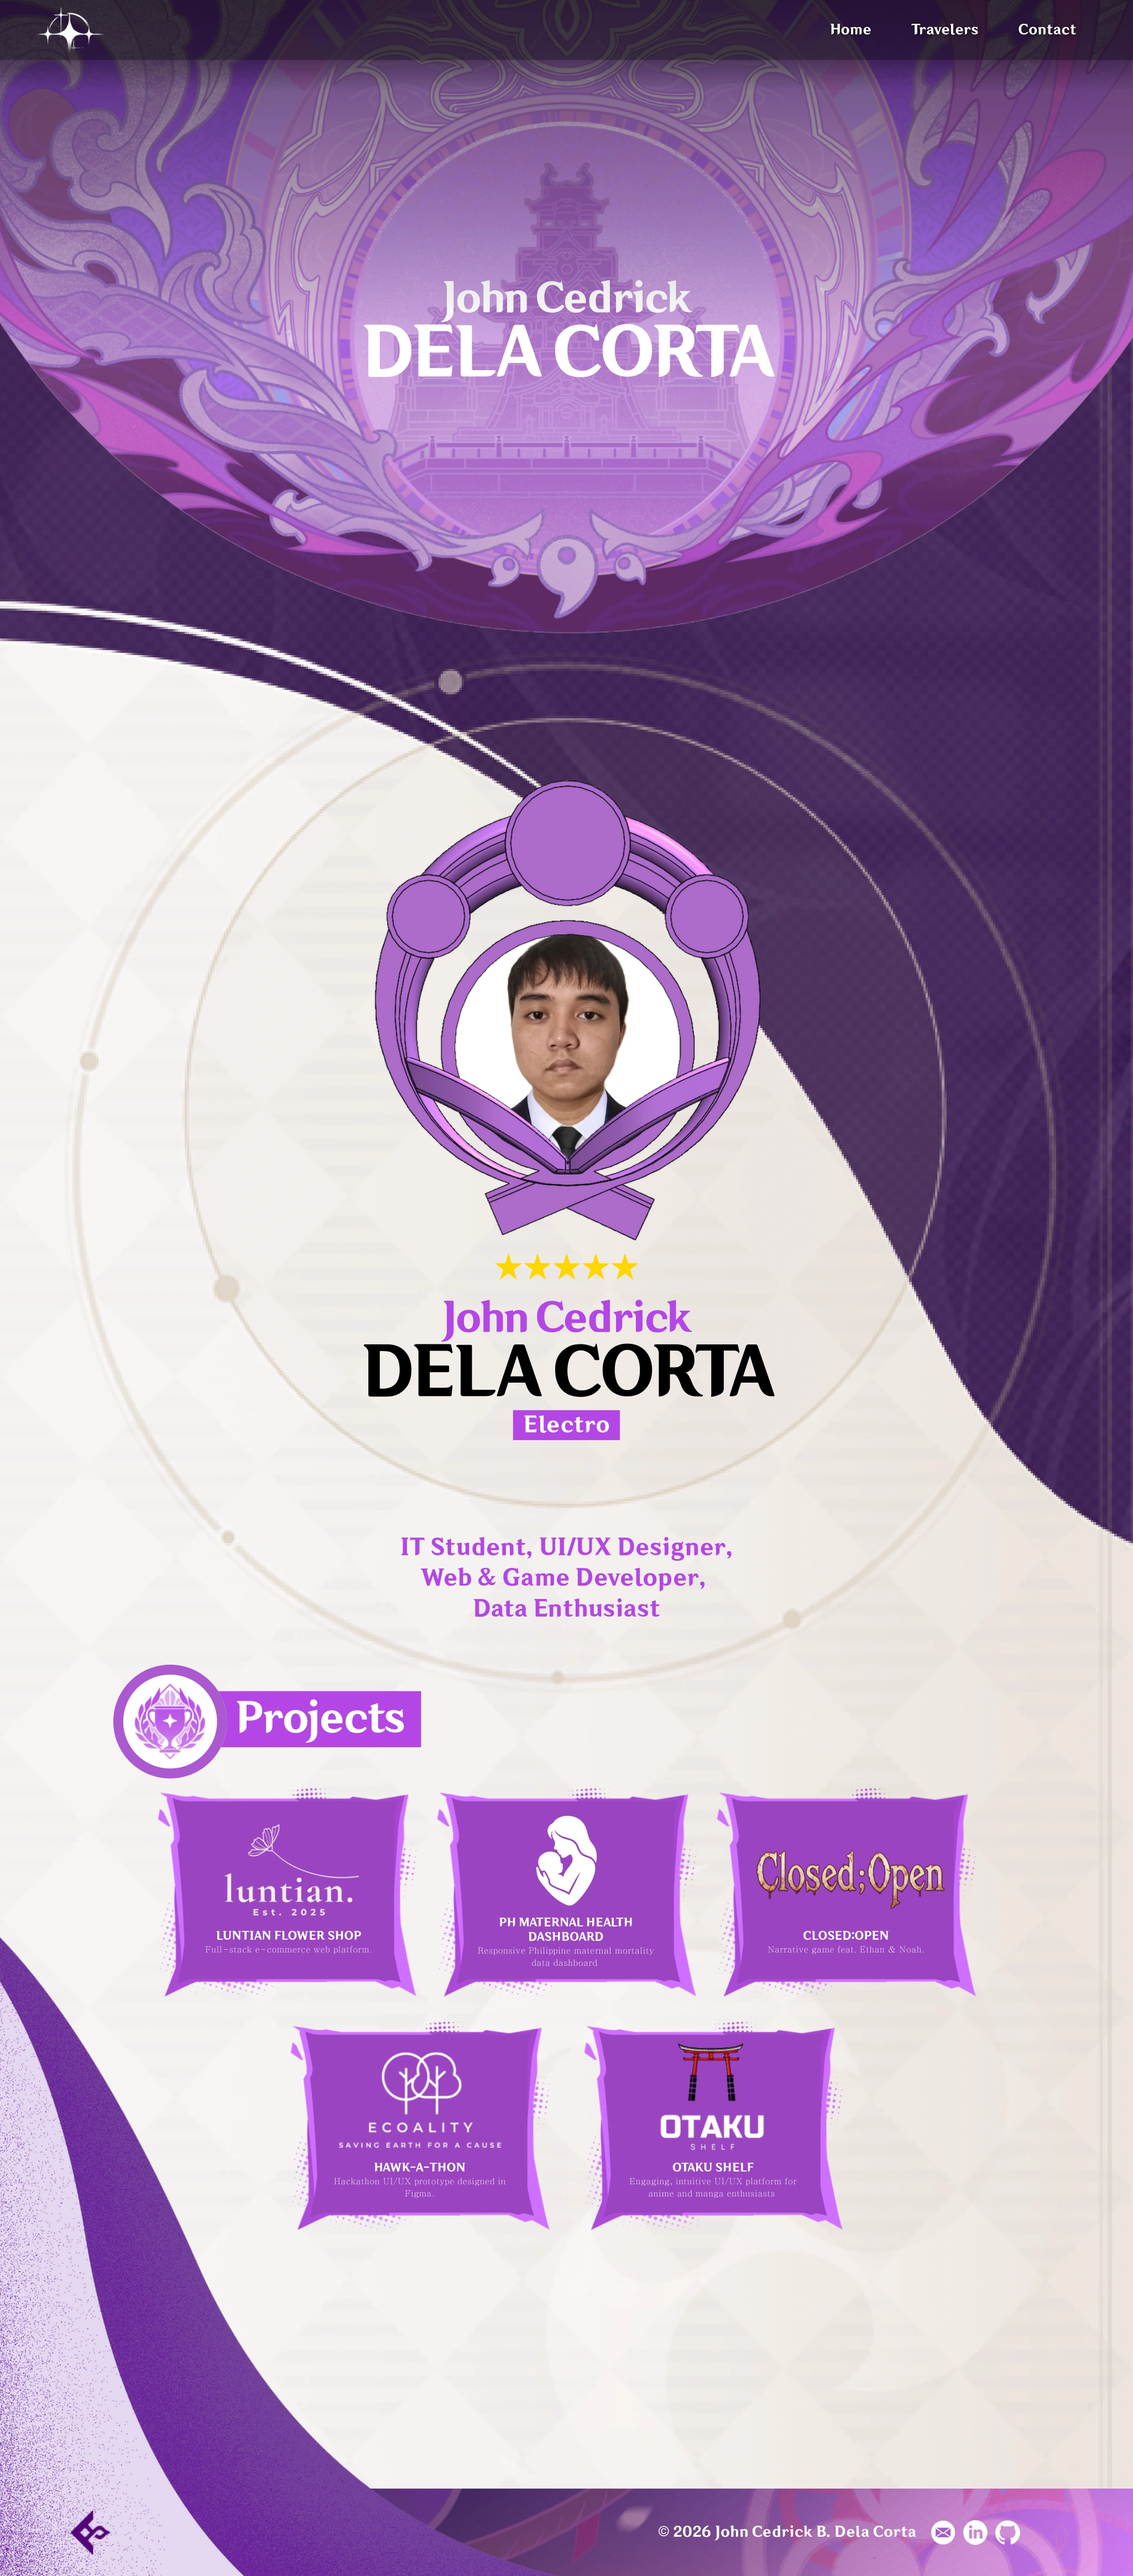
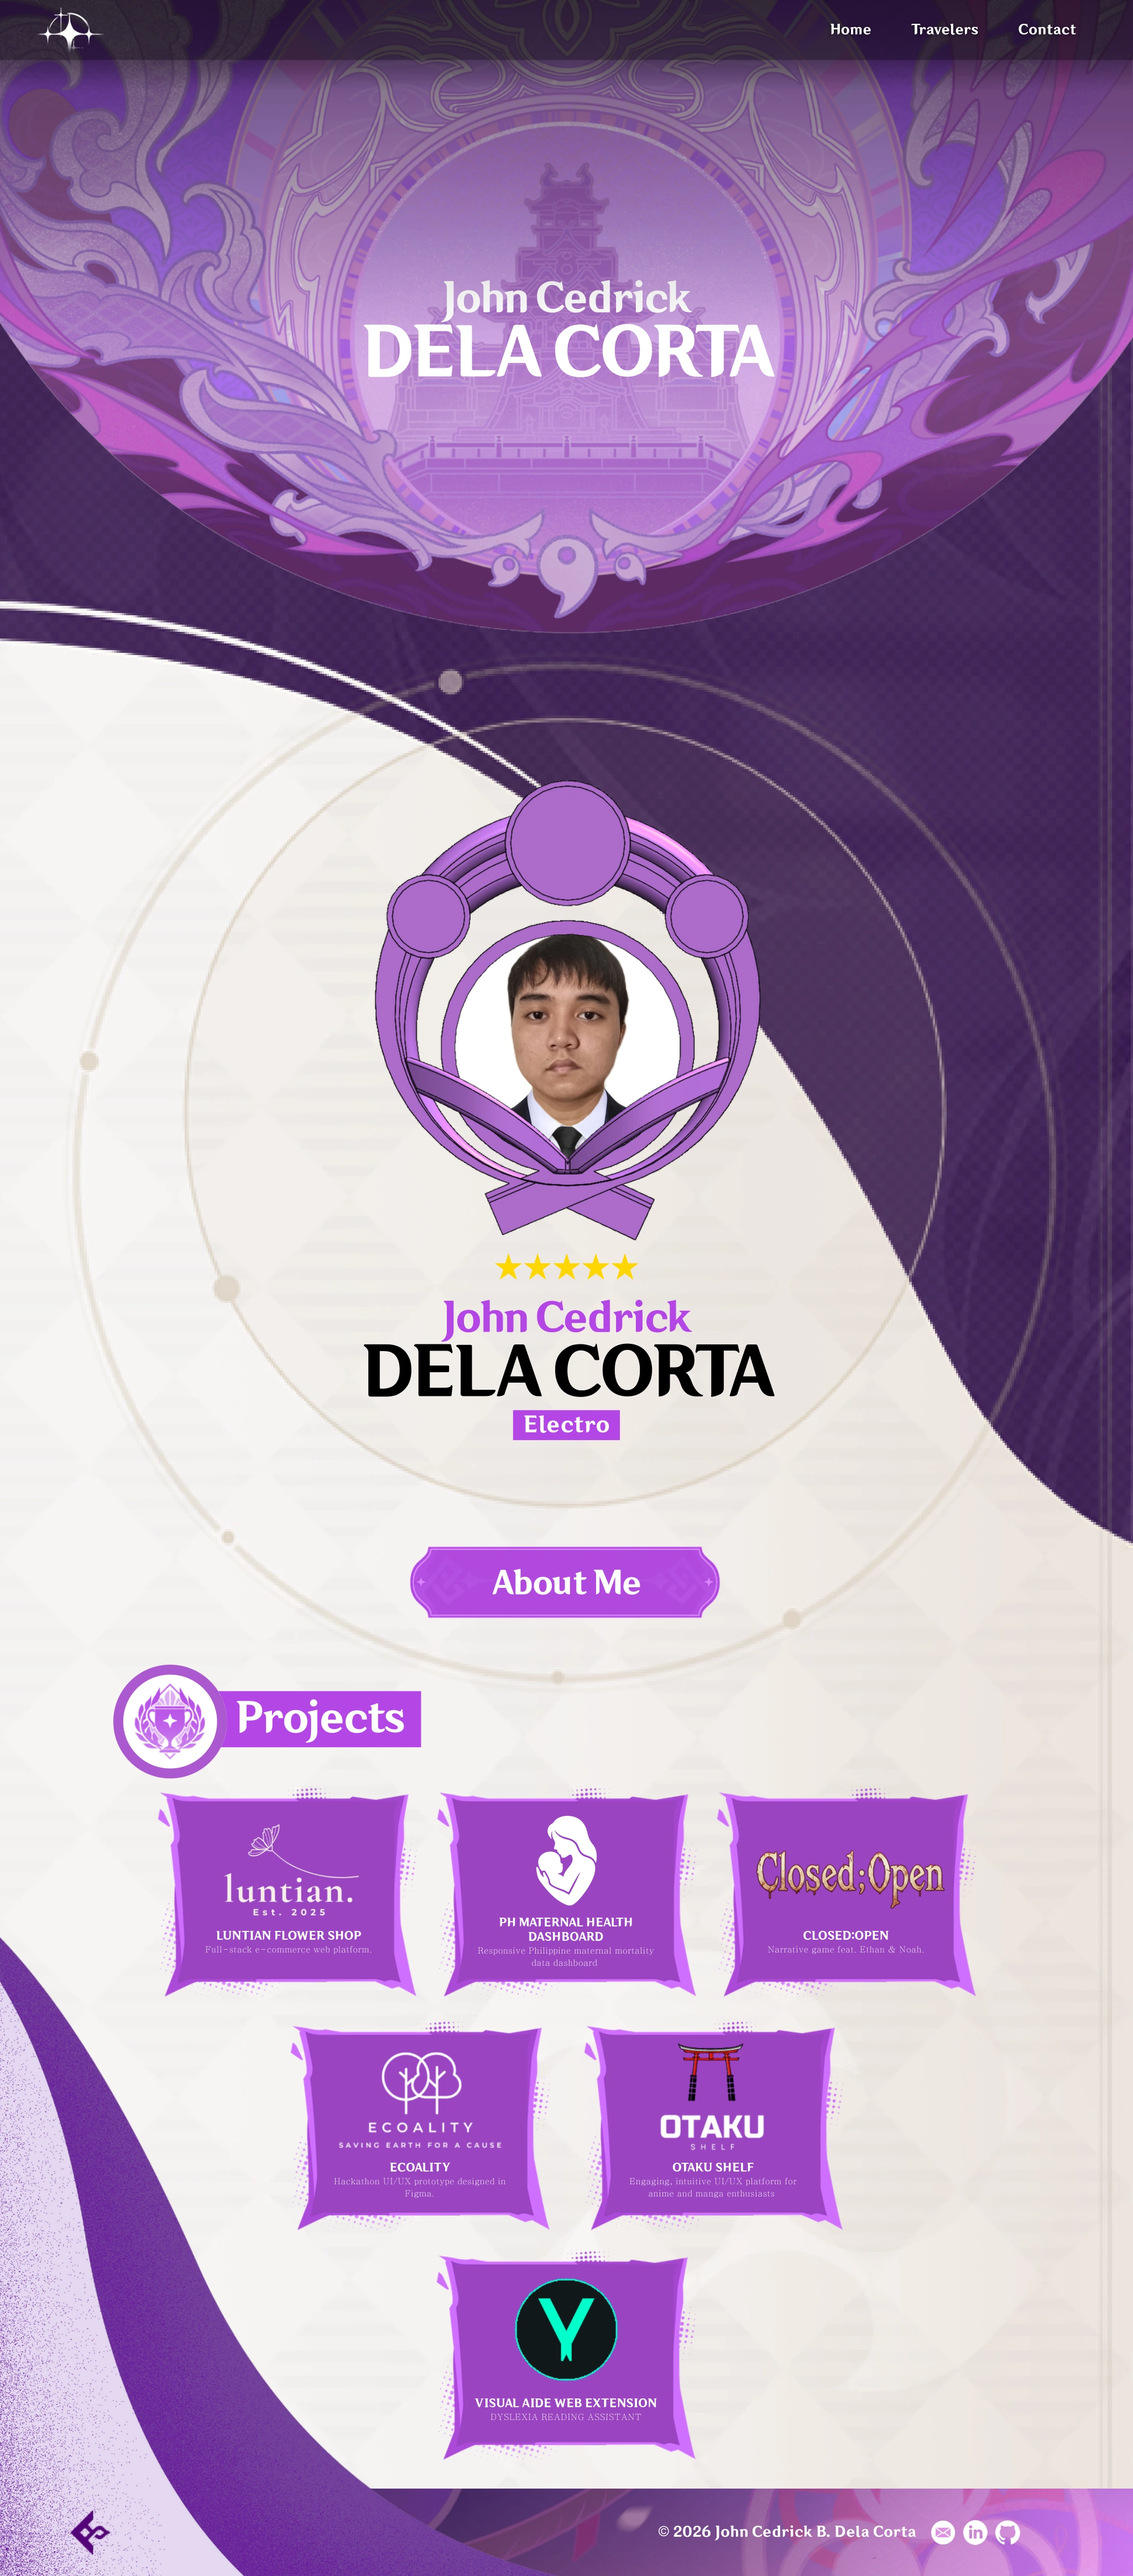
Update Cedrick portfolio mockup with About Me button and Visual Aide project hotspot

Changed region(s): [[0.3748, 0.872, 0.6247, 0.9654], [0.3436, 0.5917, 0.6559, 0.654]]

diff --git a/cedrick.html b/cedrick.html
@@ -40,12 +40,15 @@
       <img src="./assets/cedrick/portfolio_mockup_hd.png" alt="John Cedrick Dela Corta • Inazuma Electro Portfolio" class="portfolio-mockup-image" loading="eager" fetchpriority="high">
     </picture>
 
-    <!-- ==================== 1. INTERACTIVE PROJECT CARDS ==================== -->
+    <!-- ==================== 1. ABOUT ME & INTERACTIVE PROJECT CARDS ==================== -->
+    <button type="button" class="interactive-hotspot hotspot-about-me" id="hotspot-about-me" data-project="about-me" aria-label="View About John Cedrick Dela Corta Details" title="About Me • John Cedrick Dela Corta"></button>
+
     <button type="button" class="interactive-hotspot hotspot-card hotspot-card-luntian" data-project="luntian" aria-label="View Luntian Flower Shop Project Details" title="Luntian Flower Shop • E-Commerce Platform"></button>
     <button type="button" class="interactive-hotspot hotspot-card hotspot-card-maternal-health" data-project="maternal-health" aria-label="View PH Maternal Health Dashboard Project Details" title="PH Maternal Health Dashboard • Health Data Tool"></button>
     <button type="button" class="interactive-hotspot hotspot-card hotspot-card-closed-open" data-project="closed-open" aria-label="View Closed;Open Project Details" title="Closed;Open • Narrative Game"></button>
     <button type="button" class="interactive-hotspot hotspot-card hotspot-card-ecoality" data-project="ecoality" aria-label="View Ecoality Project Details" title="Ecoality • Hawk-A-Thon Prototype"></button>
     <button type="button" class="interactive-hotspot hotspot-card hotspot-card-otaku-shelf" data-project="otaku-shelf" aria-label="View Otaku Shelf Project Details" title="Otaku Shelf • Anime & Manga Platform"></button>
+    <button type="button" class="interactive-hotspot hotspot-card hotspot-card-visual-aide" data-project="visual-aide" aria-label="View Visual Aide Web Extension Details" title="Visual Aide Web Extension • Dyslexia Reading Assistant"></button>
 
     <!-- ==================== 2. INTERACTIVE FOOTER HOTSPOTS ==================== -->
     <!-- Back Button (Bottom-Left Stylized Arrow) -->
@@ -119,6 +122,20 @@
         img: './assets/cedrick/card_otaku_shelf.png',
         desc: 'A community-focused web platform designed for anime and manga enthusiasts to track watchlists, share curated reviews, and discover seasonal releases through an engaging and intuitive user interface.',
         tech: ['React', 'TypeScript', 'UI/UX Design', 'Anime/Manga API', 'CSS Grid']
+      },
+      'visual-aide': {
+        title: 'Visual Aide Web Extension',
+        tag: 'VISUAL AIDE WEB EXTENSION • Dyslexia reading assistant.',
+        img: './assets/cedrick/card_visual_aide.png',
+        desc: 'An accessibility-focused browser extension engineered to enhance web reading comprehension for individuals with dyslexia. Features OpenDyslexic typography switching, custom contrast overlays, bionic reading mode, and integrated text-to-speech comprehension tools.',
+        tech: ['JavaScript', 'Chrome Extension API', 'Accessibility (a11y)', 'UI/UX Design', 'Text-to-Speech']
+      },
+      'about-me': {
+        title: 'John Cedrick Dela Corta',
+        tag: 'ARCHON\'S PROFILE • SYSTEMS ARCHITECT & DEVELOPER',
+        img: './assets/cedrick/portrait_electro.png',
+        desc: 'The high-voltage systems engineer and full-stack software artisan of Group 4. Creator of dynamic e-commerce solutions, clinical health informatics dashboards, and accessibility-first web architectures. Driven by robust code performance and striking Inazuma Electro aesthetics.',
+        tech: ['Full-Stack Development', 'React / TypeScript', 'FastAPI / Python', 'UI/UX Design', 'Database Engineering', 'Interactive Systems']
       }
     };
 
@@ -199,8 +216,8 @@
       document.body.style.overflow = '';
     }
 
-    // Attach click events to project cards
-    document.querySelectorAll('.hotspot-card').forEach(card => {
+    // Attach click events to project cards and about me button
+    document.querySelectorAll('.hotspot-card, .hotspot-about-me').forEach(card => {
       card.addEventListener('click', () => {
         const projId = card.getAttribute('data-project');
         openProjectModal(projId);

diff --git a/cedrick.css b/cedrick.css
@@ -212,8 +212,29 @@ body.cedrick-portfolio-body {
 }
 
 /* =======================================================
-   4. PROJECT CARD HOTSPOTS (3-2 STAGGERED GRID)
+   4. ABOUT ME & PROJECT CARD HOTSPOTS
    ======================================================= */
+/* About Me Hotspot Button */
+.hotspot-about-me {
+  left: 35.830%;
+  top: 59.935%;
+  width: 28.366%;
+  height: 3.150%;
+  border-radius: 36px;
+  border: 2px solid transparent;
+}
+
+.hotspot-about-me:hover {
+  border-color: rgba(218, 165, 255, 0.85);
+  background: rgba(179, 102, 255, 0.22);
+  box-shadow: 0 0 28px rgba(179, 102, 255, 0.8), 0 0 45px rgba(218, 165, 255, 0.55), inset 0 0 16px rgba(218, 165, 255, 0.4);
+  transform: translateY(-3px) scale(1.025);
+}
+
+.hotspot-about-me:active {
+  transform: scale(0.98);
+}
+
 .hotspot-card {
   border-radius: 14px;
   border: 2px solid transparent;
@@ -270,15 +291,23 @@ body.cedrick-portfolio-body {
   height: 8.505%;
 }
 
+/* Card 6: Visual Aide Web Extension */
+.hotspot-card-visual-aide {
+  left: 38.204%;
+  top: 87.320%;
+  width: 23.504%;
+  height: 8.505%;
+}
+
 /* =======================================================
    5. FOOTER HOTSPOTS (BACK BUTTON & SOCIAL LINKS)
    ======================================================= */
 /* Back Button (Bottom-Left Stylized Arrow) */
 .hotspot-back-btn {
-  left: 5.661%;
-  top: 97.251%;
-  width: 4.685%;
-  height: 2.062%;
+  left: 6.032%;
+  top: 97.431%;
+  width: 3.953%;
+  height: 1.774%;
   border-radius: 50%;
 }
 
@@ -309,26 +338,26 @@ body.cedrick-portfolio-body {
 
 /* Email Icon */
 .hotspot-footer-email {
-  left: 81.991%;
-  top: 97.723%;
-  width: 2.440%;
-  height: 1.117%;
+  left: 82.186%;
+  top: 97.848%;
+  width: 2.108%;
+  height: 0.928%;
 }
 
 /* LinkedIn Icon */
 .hotspot-footer-linkedin {
-  left: 84.919%;
-  top: 97.723%;
-  width: 2.440%;
-  height: 1.117%;
+  left: 85.027%;
+  top: 97.848%;
+  width: 2.118%;
+  height: 0.936%;
 }
 
 /* GitHub Icon */
 .hotspot-footer-github {
-  left: 87.750%;
-  top: 97.723%;
-  width: 2.440%;
-  height: 1.117%;
+  left: 87.897%;
+  top: 97.848%;
+  width: 2.118%;
+  height: 0.936%;
 }
 
 /* =======================================================
